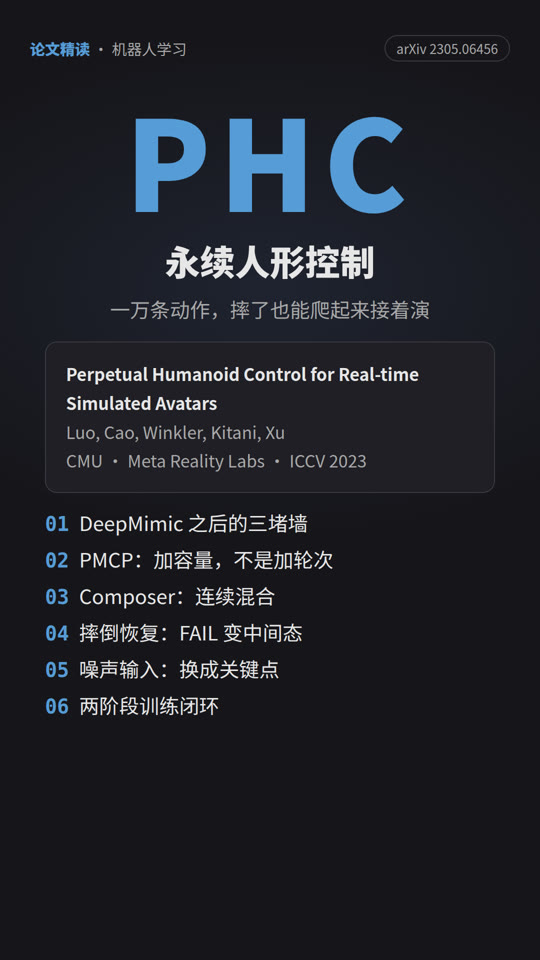
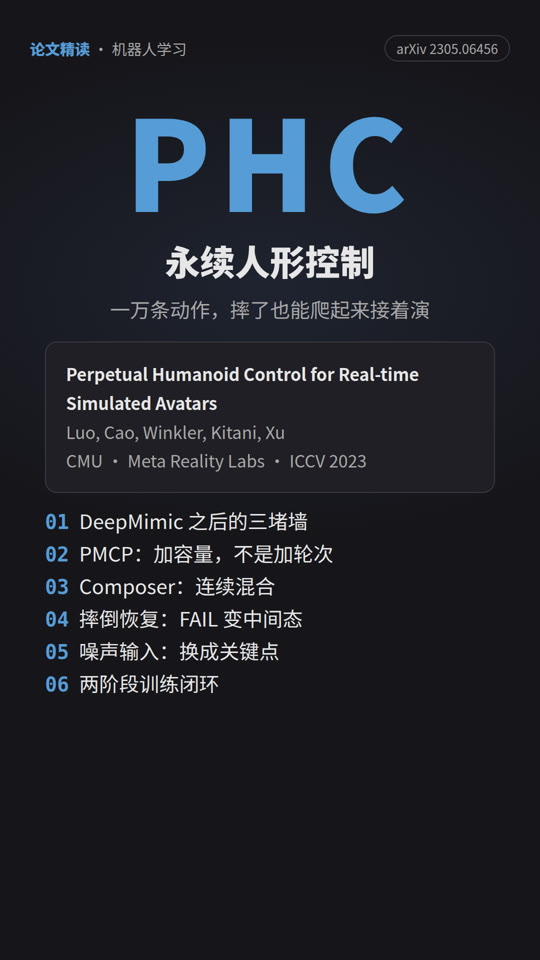
fix(Video): 封面目录离 3:4 置顶裁剪线留 35px，重出 PHC 海报
视频号「设置封面」按 3:4 置顶裁剪（y 0–1440），PHC 六条目录的最后一行字底在 1451，裁剪后直接贴底：
- stage.html 的 classicCover()：目录最后一行字底不过 1405（AMP 的余量），超了先收行距、再缩字号；5 条目录的封面不变
- check_layout.mjs cover 增加这条检查
- 重出 PHC 封面与海报（行距 1.75 → 1.5，字号不变）；README、AGENTS.md 同步规则

Claude-Session: https://claude.ai/code/session_01MUtqJP3uYnZYfofjo1cVjD

Changed region(s): [[0.0593, 0.5312, 0.6222, 0.75]]

diff --git a/scripts/paper_video/stage.html b/scripts/paper_video/stage.html
@@ -203,6 +203,7 @@ html, body { width: 1080px; height: 1920px; overflow: hidden; background: var(--
      目录紧跟信息框（40px，行距随条数收紧：≤5 条 1.9、6 条 1.75、7 条 1.55、8 条及以上 1.5 / 38px）。
      每块都在上一块底下留出间距，内容比原设计高就整体往下推，永不重叠；目录底超过 1820 再压行距、字号。
      片头在视频里另有自己的安全区排版（V.stack），这里只在封面帧上重新排。 */
+  var COVER_INK_BOTTOM = 1405;  // 3:4 置顶裁剪线 1440 往上留 35px（AMP 封面的余量）
   function classicCover(root) {
     var bigs = root.querySelectorAll('.big'), m = root.querySelector('.meta'), toc = root.querySelector('.toc');
     if (bigs.length < 2 || !m || !toc) return;
@@ -245,8 +246,11 @@ html, body { width: 1080px; height: 1920px; overflow: hidden; background: var(--
     toc.style.fontSize = (rows >= 8 ? 38 : 40) + 'px';
     toc.style.lineHeight = rows <= 5 ? '1.9' : rows === 6 ? '1.75' : rows === 7 ? '1.55' : '1.5';
     toc.style.top = (m.offsetTop + m.offsetHeight + 24) + 'px';
+    // 视频号「设置封面」按 3:4 置顶裁剪（只留 y 0–1440）：目录最后一行的字底不过 COVER_INK_BOTTOM，
+    // 和 AMP 一样离裁剪线留 35px；放不下先收行距、再缩字号
+    function inkBottom() { range.selectNodeContents(toc.lastElementChild); return range.getBoundingClientRect().bottom; }
     for (var lh = parseFloat(toc.style.lineHeight), fs = parseFloat(toc.style.fontSize);
-      toc.offsetTop + toc.offsetHeight > 1820 && fs >= 32;) {
+      inkBottom() > COVER_INK_BOTTOM && fs >= 32;) {
       if (lh > 1.35) lh -= 0.05; else fs -= 2;
       toc.style.lineHeight = lh.toFixed(2); toc.style.fontSize = fs + 'px';
     }

diff --git a/scripts/paper_video/README.md b/scripts/paper_video/README.md
@@ -48,10 +48,10 @@
 - 英文大标题：250px、字距 16px、主题蓝；名字长到放不下就改 4px 字距、等比缩小到宽 ≤ 980（DeepMimic 约 170px），在 190–440 这一带里垂直居中。
 - 中文名 70px 粗体 + 一句话 40px 灰字，从 470 起，各占一行（过长就缩字号，不折行）。
 - 论文信息框从 680 起（34px，内边距 34 / 40），标题可以折行。
-- 目录紧跟信息框（间距 24），40px；行距随条数收紧：≤5 条 1.9、6 条 1.75、7 条 1.55、8 条及以上 1.5 / 38px；底超过 1820 再压行距、字号。
+- 目录紧跟信息框（间距 24），40px；行距随条数收紧：≤5 条 1.9、6 条 1.75、7 条 1.55、8 条及以上 1.5 / 38px；视频号「设置封面」按 **3:4 置顶裁剪**（只留 y 0–1440），所以最后一行目录的字底不过 **1405**（和 AMP 一样离裁剪线 35px），超了先把行距压到 1.35、再缩字号（PHC / ASE / PULSE 6 条为 1.5，7–8 条的会缩到 36 / 32px）。
 - 每块都排在上一块底下，内容比原设计高就整体往下推，永不重叠。
 
-生成封面不需要先跑 `build.py`（没有 timeline 时 `render.mjs cover` 自己补一段片头）。生成后必须跑 `node check_layout.mjs <paper> cover`：四块互不重叠、都在画面里、大标题 / 中文名 / 一句话 / 每条目录各占一行，输出 `no overlap` 才算过。海报由 `cover.png` 缩到 540×960 的 jpg。
+生成封面不需要先跑 `build.py`（没有 timeline 时 `render.mjs cover` 自己补一段片头）。生成后必须跑 `node check_layout.mjs <paper> cover`：四块互不重叠、都在画面里、大标题 / 中文名 / 一句话 / 每条目录各占一行、目录字底不过 1405，输出 `no overlap` 才算过。海报由 `cover.png` 缩到 540×960 的 jpg。
 
 ## 用法
 
